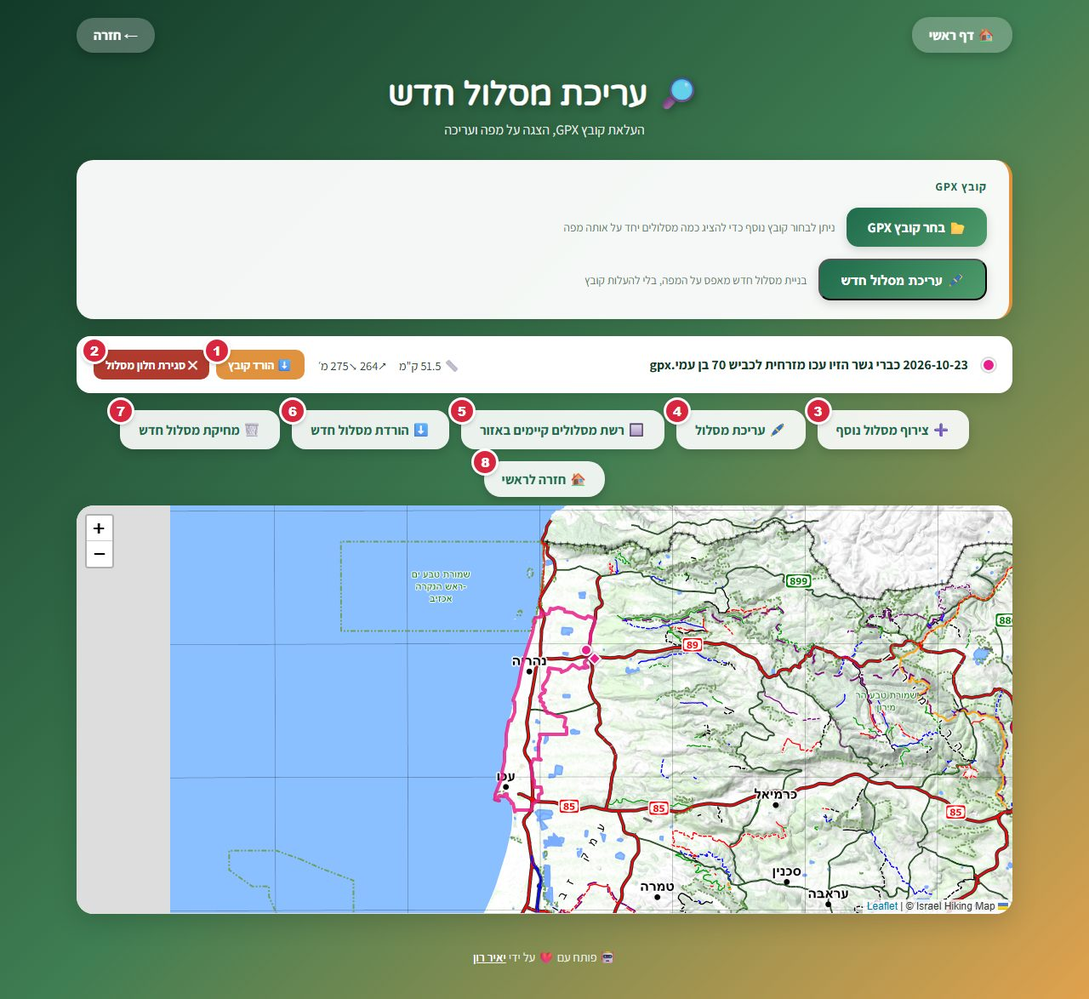
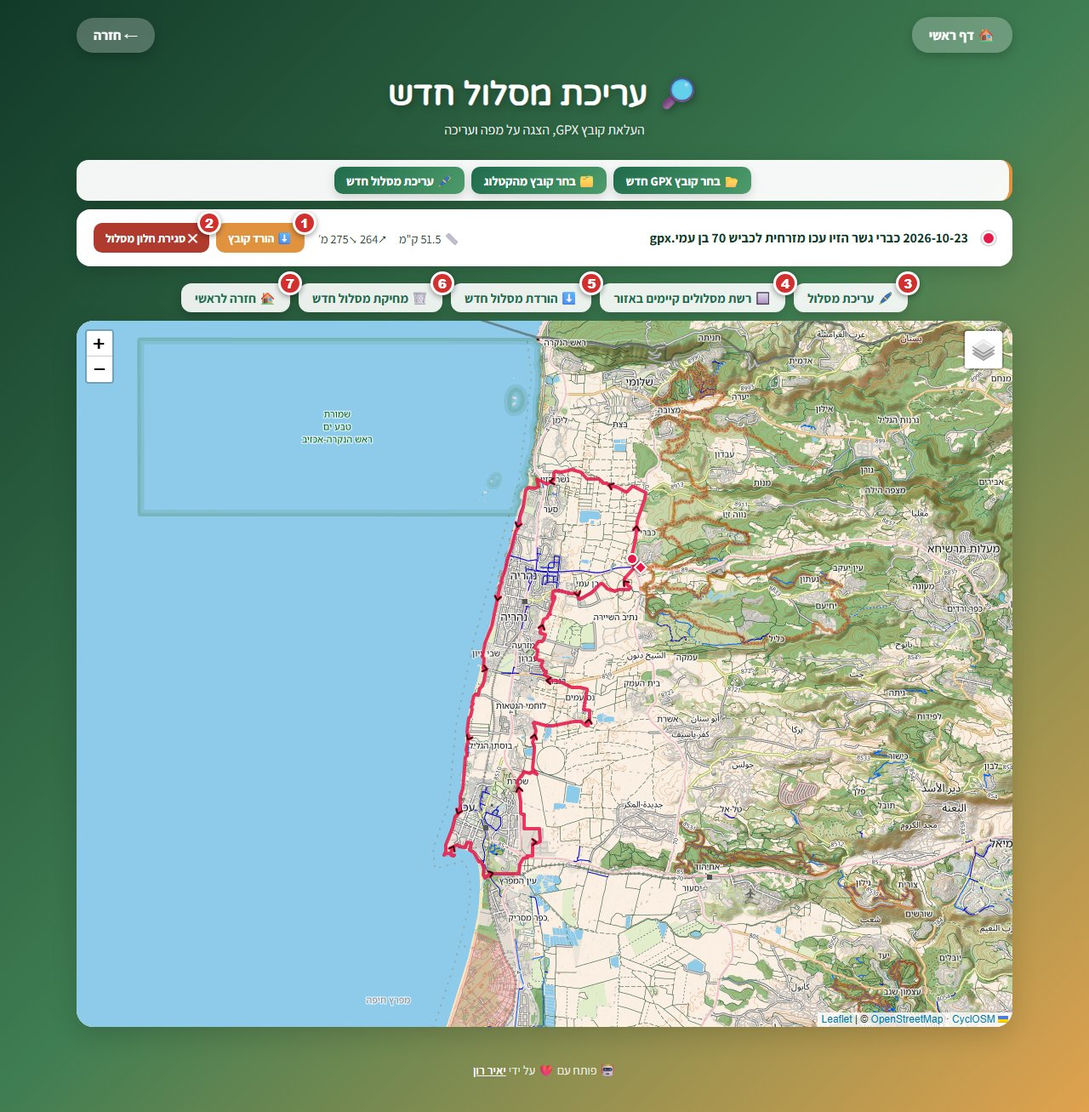
Bike: merge into edited route, "תכנון מסלול חדש" button, guide TOC and screenshots
- gps_upload: "מזג את כל המסלולים" now includes the drawn route, chains pieces by
  nearest ends, and turns the result into the edited route (delete/download/
  continue editing); all edit options stay available after merge, cut turns
  the merged route into a source file
- catalog: button renamed "🔎 תכנון מסלול חדש"
- user guide: TOC grouped by page, upload chapter rebuilt with new screenshots
  and a catalog-picker section

diff --git a/YR1/bike/user_guide/user_guide.html b/YR1/bike/user_guide/user_guide.html
@@ -26,7 +26,10 @@ li{margin:4px 0}
 a{color:var(--primary);font-weight:600}
 code,.mono{font-family:Consolas,monospace;background:var(--light);border-radius:6px;padding:1px 6px;font-size:.92rem;direction:ltr;unicode-bidi:embed;white-space:nowrap}
 .toc{columns:2;column-gap:30px}
-.toc ol{margin-top:0}
+.toc ol{margin:4px 22px 0 0}
+.toc-group{break-inside:avoid;margin-bottom:14px}
+.toc .toc-page{display:block;font-family:'Varela Round',sans-serif;font-size:1.12rem;color:var(--dark);border-bottom:1px solid #DCE8E0;padding-bottom:3px}
+.toc-file{font-family:Consolas,monospace;font-size:.78rem;color:#5C7A6B;font-weight:400;direction:ltr;unicode-bidi:embed}
 .toc a{text-decoration:none}
 .toc a:hover{text-decoration:underline}
 .tools{display:grid;grid-template-columns:repeat(auto-fit,minmax(240px,1fr));gap:14px;margin-top:12px}
@@ -77,22 +80,53 @@ footer{text-align:center;color:#5C7A6B;font-size:.9rem;padding:10px 16px 30px}
 <section id="toc">
   <h2>תוכן העניינים</h2>
   <div class="toc">
-    <ol>
-      <li><a href="#intro">מה יש כאן</a></li>
-      <li><a href="#catalog">קטלוג מסלולים</a></li>
-      <li><a href="#catalog-search">חיפוש, סינון ומיון</a></li>
-      <li><a href="#catalog-card">כרטיס מסלול</a></li>
-      <li><a href="#catalog-select">בחירת מסלולים והורדה</a></li>
-      <li><a href="#catalog-map">תצוגת מסלולים על המפה</a></li>
-      <li><a href="#catalog-edit">עריכת מסלול מתוך המפה</a></li>
-      <li><a href="#catalog-network">רשת מסלולים: אילו מסלולים עוברים בנקודה</a></li>
-      <li><a href="#upload">עריכת מסלול חדש (קובץ מהמחשב)</a></li>
-      <li><a href="#upload-edit">עריכה בדף "עריכת מסלול חדש"</a></li>
-      <li><a href="#upload-area">רשת מסלולים קיימים באזור</a></li>
-      <li><a href="#cleaner">ניקוי קובץ GPX</a></li>
-      <li><a href="#add-route">הוספת מסלול לקטלוג</a></li>
-      <li><a href="#faq">טיפים ושאלות נפוצות</a></li>
-    </ol>
+    <div class="toc-group">
+      <a class="toc-page" href="#intro">📖 כללי</a>
+      <ol>
+        <li><a href="#intro">מה יש כאן</a></li>
+      </ol>
+    </div>
+    <div class="toc-group">
+      <a class="toc-page" href="#catalog">🗺 קטלוג מסלולים <span class="toc-file">catalog.html</span></a>
+      <ol>
+        <li><a href="#catalog">מסך הקטלוג</a></li>
+        <li><a href="#catalog-search">חיפוש, סינון ומיון</a></li>
+        <li><a href="#catalog-card">כרטיס מסלול</a></li>
+        <li><a href="#catalog-select">בחירת מסלולים והורדה</a></li>
+        <li><a href="#catalog-map">תצוגת מסלולים על המפה</a></li>
+        <li><a href="#catalog-edit">עריכת מסלול מתוך המפה</a></li>
+        <li><a href="#catalog-network">רשת מסלולים: אילו מסלולים עוברים בנקודה</a></li>
+      </ol>
+    </div>
+    <div class="toc-group">
+      <a class="toc-page" href="#upload">🔎 תכנון מסלול חדש <span class="toc-file">gps_upload.html</span></a>
+      <ol>
+        <li><a href="#upload">מסך הפתיחה וטעינת קבצים</a></li>
+        <li><a href="#upload-picker">בחירת מסלולים מהקטלוג</a></li>
+        <li><a href="#upload-edit">עריכה בדף "עריכת מסלול חדש"</a></li>
+        <li><a href="#upload-area">רשת מסלולים קיימים באזור</a></li>
+      </ol>
+    </div>
+    <div class="toc-group">
+      <a class="toc-page" href="#cleaner">🧹 ניקוי קובץ GPX <span class="toc-file">gpx_cleaner.html</span></a>
+      <ol>
+        <li><a href="#cleaner-file">בחירת קובץ</a></li>
+        <li><a href="#cleaner-settings">הגדרות</a></li>
+        <li><a href="#cleaner-manual">בדיקה ידנית</a></li>
+        <li><a href="#cleaner-next">מה הלאה?</a></li>
+        <li><a href="#cleaner-results">תוצאות</a></li>
+        <li><a href="#cleaner-map">מפה והורדה</a></li>
+      </ol>
+    </div>
+    <div class="toc-group">
+      <a class="toc-page" href="#add-route">➕ הוספת מסלול לקטלוג <span class="toc-file">add_route.html</span></a>
+      <ol>
+        <li><a href="#add-route">שליחת מסלול לקטלוג</a></li>
+      </ol>
+    </div>
+    <div class="toc-group">
+      <a class="toc-page" href="#faq">💬 טיפים ושאלות נפוצות</a>
+    </div>
   </div>
 </section>
 
@@ -119,7 +153,7 @@ footer{text-align:center;color:#5C7A6B;font-size:.9rem;padding:10px 16px 30px}
     <tr><td><span class="n">1</span></td><td>🧹 ניקוי GPX</td><td>מעבר לדף <a href="#cleaner">ניקוי קובץ GPX</a>.</td></tr>
     <tr><td><span class="n">2</span></td><td>📖 מדריך למשתמש</td><td>פותח את המדריך הזה.</td></tr>
     <tr><td><span class="n">3</span></td><td>➕ הוספת מסלול לקטלוג</td><td>פותח את <a href="#add-route">טופס הוספת מסלול</a>, לשליחת מסלול שלכם לקטלוג.</td></tr>
-    <tr><td><span class="n">4</span></td><td>🔎 בדיקת קובץ חדש</td><td>מעבר לדף <a href="#upload">עריכת מסלול חדש</a>, לפתיחת קובץ GPX מהמחשב.</td></tr>
+    <tr><td><span class="n">4</span></td><td>🔎 תכנון מסלול חדש</td><td>מעבר לדף <a href="#upload">עריכת מסלול חדש</a>, לפתיחת קובץ GPX מהמחשב.</td></tr>
     <tr><td><span class="n">5</span></td><td>תיבת החיפוש</td><td>חיפוש לפי שם מסלול, ישוב, מקום עניין, מספר מסלול או קורדינטות. התוצאות מתעדכנות תוך כדי הקלדה. ראו <a href="#catalog-search">חיפוש, סינון ומיון</a>.</td></tr>
     <tr><td><span class="n">6</span></td><td>רדיוס חיפוש</td><td>פעיל רק בחיפוש לפי קורדינטות: מציג מסלולים שעוברים במרחק הזה מהנקודה. בין 50 ל-9999 מטר, ברירת המחדל 500.</td></tr>
     <tr><td><span class="n">7</span></td><td>סוג פעילות</td><td>הכול / 🚶 הליכה רגלית / 🚵 רכיבת אופניים.</td></tr>
@@ -282,20 +316,30 @@ footer{text-align:center;color:#5C7A6B;font-size:.9rem;padding:10px 16px 30px}
 
 <!-- ============ עריכת מסלול חדש ============ -->
 <section id="upload">
-  <h2>🔎 עריכת מסלול חדש (קובץ מהמחשב)</h2>
-  <p>בדף הזה עובדים עם קובצי GPX שלכם, כאלה שלא נמצאים בקטלוג: מהשעון, מאפליקציה או מחבר. נכנסים אליו מכפתור <b>🔎 בדיקת קובץ חדש</b> בקטלוג.</p>
-  <div class="tip">🔒 הקובץ שאתם בוחרים נקרא בתוך הדפדפן שלכם בלבד. הוא לא נשלח לאתר ולא נשמר בו.</div>
+  <h2>🔎 עריכת מסלול חדש</h2>
+  <p>בדף הזה פותחים קובצי GPX ומציגים אותם על מפה: קבצים שלכם מהשעון, מאפליקציה או מחבר, או מסלולים מהקטלוג. אפשר גם לבנות בו מסלול חדש מאפס. נכנסים אליו מכפתור <b>🔎 תכנון מסלול חדש</b> בקטלוג.</p>
+  <div class="tip">🔒 קובץ שאתם בוחרים מהמחשב נקרא בתוך הדפדפן שלכם בלבד. הוא לא נשלח לאתר ולא נשמר בו.</div>
   <figure><img src="img/upload-start.jpg" alt="דף עריכת מסלול חדש" loading="lazy"><figcaption>הדף לפני שנבחר קובץ</figcaption></figure>
   <table>
     <tr><th>#</th><th>כפתור</th><th>מה הוא עושה</th></tr>
     <tr><td><span class="n">1</span></td><td>🏠 דף ראשי</td><td>חזרה לקטלוג המסלולים.</td></tr>
     <tr><td><span class="n">2</span></td><td>← חזרה</td><td>חזרה לדף הקודם בדפדפן.</td></tr>
-    <tr><td><span class="n">3</span></td><td>📂 בחר קובץ GPX חדש<br>🗂 בחר קובץ מהקטלוג</td><td>הראשון פותח קובץ GPX מהמחשב או מהטלפון. השני פותח חלון עם כל מסלולי הקטלוג: מחפשים לפי שם, יישוב או מספר מסלול, מסמנים מסלול אחד או יותר ולוחצים <b>הצגה על המפה</b>. אפשר לחזור על כל אחד מהם, וכל המסלולים יוצגו יחד.</td></tr>
-    <tr><td><span class="n">4</span></td><td>🖊 עריכת מסלול חדש</td><td>מתחיל מסלול חדש מאפס, בלי קובץ. המפה נפתחת במיקום שלכם (אם תאשרו לדפדפן לגשת למיקום), ותפריט העריכה נפתח מיד.</td></tr>
+    <tr><td><span class="n">3</span></td><td>📂 בחר קובץ GPX חדש</td><td>פותח קובץ GPX מהמחשב או מהטלפון. אפשר לחזור על זה כמה פעמים, וכל הקבצים יוצגו יחד על המפה.</td></tr>
+    <tr><td><span class="n">4</span></td><td>🗂 בחר קובץ מהקטלוג</td><td>פותח חלון עם כל מסלולי הקטלוג (ראו למטה).</td></tr>
+    <tr><td><span class="n">5</span></td><td>🖊 עריכת מסלול חדש</td><td>מתחיל מסלול חדש מאפס, בלי קובץ. המפה נפתחת במיקום שלכם (אם תאשרו לדפדפן לגשת למיקום), ותפריט העריכה נפתח מיד.</td></tr>
   </table>
 
+  <h3 id="upload-picker">בחירת מסלולים מהקטלוג</h3>
+  <figure><img src="img/upload-catalog-picker.jpg" alt="חלון בחירת מסלולים מהקטלוג" loading="lazy"><figcaption>החלון שנפתח בלחיצה על 🗂 בחר קובץ מהקטלוג</figcaption></figure>
+  <ul>
+    <li>מקלידים בשורת החיפוש שם, יישוב או מספר מסלול. הרשימה מסתננת תוך כדי הקלדה, ולכל מסלול מוצגים המספר והאורך שלו.</li>
+    <li>מסמנים מסלול אחד או יותר. בתחתית החלון מופיע כמה מסלולים נבחרו.</li>
+    <li>לוחצים <b>הצגה על המפה</b>. המסלולים נפתחים כמו קבצים שבחרתם מהמחשב, כל אחד בצבע משלו, ואפשר להוסיף אליהם עוד קבצים.</li>
+    <li>✕ או לחיצה מחוץ לחלון סוגרים אותו בלי לפתוח מסלולים.</li>
+  </ul>
+
   <h3>אחרי שנבחר קובץ</h3>
-  <p>לכל קובץ מופיע כרטיס עם השם, הצבע שלו על המפה, המרחק והטיפוס והירידה. מתחת לכרטיסים יש שורת כפתורים, ומתחתיה המפה.</p>
+  <p>הכפתורים בראש הדף נשארים, כדי שאפשר יהיה להוסיף עוד קבצים. לכל קובץ מופיע כרטיס עם השם, הצבע שלו על המפה, המרחק והטיפוס והירידה. מתחת לכרטיסים יש שורת כפתורים, ומתחתיה המפה, שתופסת את רוב גובה המסך.</p>
   <figure><img src="img/upload-loaded.jpg" alt="קובץ שנטען" loading="lazy"><figcaption>קובץ אחד טעון, עם שורת הכפתורים</figcaption></figure>
   <table>
     <tr><th>#</th><th>כפתור</th><th>מה הוא עושה</th></tr>
@@ -321,7 +365,7 @@ footer{text-align:center;color:#5C7A6B;font-size:.9rem;padding:10px 16px 30px}
   <figure><img src="img/upload-edit-menu.jpg" alt="תפריט העריכה" loading="lazy"><figcaption>תפריט "עריכת מסלול" בדף עריכת מסלול חדש</figcaption></figure>
   <table>
     <tr><th></th><th>אפשרות</th><th>מה היא עושה</th></tr>
-    <tr><td>🔗</td><td>מזג את כל המסלולים</td><td>מוריד מיד קובץ אחד, <code>מיזוג_מסלולים.gpx</code>, עם כל הקבצים שפתחתם. מופיע רק כשיש לפחות קובץ אחד פתוח.</td></tr>
+    <tr><td>🔗</td><td>מזג את כל המסלולים</td><td>מחבר את כל הקבצים שפתחתם, וגם את המסלול שבניתם בעריכה, למסלול אחד, והוא הופך למסלול החדש שבעריכה: הוא מוצג בצבע העריכה, והקבצים שמוזגו יורדים מהרשימה ומהמפה (הקבצים במחשב לא משתנים). מכאן אפשר להמשיך להוסיף לו נקודות, להוריד אותו ב-<b>⬇ הורדת מסלול חדש</b>, או למחוק את כולו ב-<b>🗑 מחיקת מסלול חדש</b>. החלקים מתחברים לפי הקצוות הקרובים: קטע שציירתם עד תחילת הקובץ נכנס לפניו, וקטע שמתחיל בסוף הקובץ נכנס אחריו, גם אם ציירתם אותו בכיוון ההפוך. חלקים רחוקים זה מזה מתחברים בקו ישר. UNDO לא מבטל את המיזוג עצמו, רק נקודות שהוספתם אחריו. כל אפשרויות התפריט נשארות זמינות גם אחרי המיזוג. בחירה ב-<b>✂ חיתוך</b> הופכת את המסלול הממוזג לקובץ ברשימה (<code>מסלול_ממוזג.gpx</code>), ואז לוחצים עליו על נקודת ההתחלה והסיום הרצויות, כמו בכל קובץ. מופיע רק כשיש לפחות קובץ אחד פתוח.</td></tr>
     <tr><td>✂</td><td>חיתוך מסלול לפי מסלולים קיימים</td><td>לוחצים על נקודות לאורך הקווים שעל המפה: הקבצים שפתחתם, רשת המסלולים באזור והמסלולים שבחרתם מרשימת האזור. כשלוחצים שוב על אותו מסלול, המסלול החדש נשאר עליו ועוקב אחריו. כשלוחצים על מסלול אחר, המסלול החדש עובר אליו בדרך הקצרה ביותר לאורך הקווים שעל המפה, גם דרך מסלולים נוספים. אם אין שום חיבור בין שני המסלולים, הנקודות מחוברות בקו ישר ומופיעה אזהרה. מופיע כשיש קובץ פתוח או רשת מסלולים.</td></tr>
     <tr><td>📍</td><td>הוספת נקודות עם הצמדה לנתיב מפה</td><td>הנקודות נצמדות לשבילים ולדרכים של המפה (OpenStreetMap), והמסלול עוקב אחריהם. צריך להתקרב לאזור לפני הבחירה.</td></tr>
     <tr><td>✏</td><td>הוספת נקודות חופשי (בלי הצמדה)</td><td>כל לחיצה מוסיפה נקודה במקום שלחצתם, עם קו ישר מהנקודה הקודמת.</td></tr>
@@ -380,7 +424,7 @@ footer{text-align:center;color:#5C7A6B;font-size:.9rem;padding:10px 16px 30px}
 <section id="cleaner">
   <h2>🧹 ניקוי קובץ GPX</h2>
   <p>לפעמים ה-GPS "קופץ": נקודה בודדת רחוקה מהמסלול, קטע שנרשם כשהמכשיר נשאר דלוק ברכב, או גובה שגוי. הכלי הזה מתקן את הגובה, מסיר קפיצות, נותן לכם לסמן קטעים למחיקה, ומוריד קובץ נקי.</p>
-  <h3>1. בחירת קובץ</h3>
+  <h3 id="cleaner-file">1. בחירת קובץ</h3>
   <p>יש שתי דרכים: מהקטלוג (בוחרים מסלול ולוחצים <b>🧹 ניקוי קובץ</b> בפס הפעולות), או ישירות מהדף.</p>
   <figure><img src="img/cleaner-empty.jpg" alt="ניקוי GPX לפני בחירת קובץ" loading="lazy"><figcaption>הדף כשנכנסים אליו ישירות</figcaption></figure>
   <ul>
@@ -389,7 +433,7 @@ footer{text-align:center;color:#5C7A6B;font-size:.9rem;padding:10px 16px 30px}
   </ul>
   <div class="warn">⚠ הכלי מיועד ל<b>הקלטות</b>, כלומר קבצים עם שעה לכל נקודה. במסלול מתוכנן אין שעות, ולכן אי אפשר לבדוק בו מהירות.</div>
 
-  <h3>2. הגדרות</h3>
+  <h3 id="cleaner-settings">2. הגדרות</h3>
   <figure><img src="img/cleaner-main.jpg" alt="הגדרות הניקוי" loading="lazy"><figcaption>קובץ נבחר, וההגדרות לפני הניקוי</figcaption></figure>
   <table>
     <tr><th>#</th><th>כפתור / שדה</th><th>מה הוא עושה</th></tr>
@@ -418,14 +462,14 @@ footer{text-align:center;color:#5C7A6B;font-size:.9rem;padding:10px 16px 30px}
   </table>
   <p>לחיצה על שורה ברשימה מקרבת את המפה לנקודת הציון הזו.</p>
 
-  <h3>4. מה הלאה?</h3>
+  <h3 id="cleaner-next">4. מה הלאה?</h3>
   <figure><img src="img/cleaner-decision.jpg" alt="חלון מה הלאה" loading="lazy"></figure>
   <ul>
     <li><b>🔄 סבוב נוסף</b>: מוחק את הקטעים שסימנתם ב-✗ ומחלק את מה שנשאר לנקודות ציון חדשות, לבדיקה מדויקת יותר. מספר הסבב בראש המסך עולה.</li>
     <li><b>⚡ הפעל פילטר אוטומטי</b>: מוחק את הקטעים שסימנתם, מפעיל את הסינון לפי ההגדרות (גובה, מהירות, מרחק) ומציג תוצאות.</li>
   </ul>
 
-  <h3>5. תוצאות</h3>
+  <h3 id="cleaner-results">5. תוצאות</h3>
   <figure><img src="img/cleaner-results.jpg" alt="תוצאות הניקוי" loading="lazy"><figcaption>תוצאות: נקודות מקוריות, שנשמרו ושנמחקו</figcaption></figure>
   <table>
     <tr><th>#</th><th>כפתור / אזור</th><th>מה הוא עושה</th></tr>
@@ -434,7 +478,7 @@ footer{text-align:center;color:#5C7A6B;font-size:.9rem;padding:10px 16px 30px}
   </table>
   <div class="tip">💡 נמחקו יותר נקודות ממה שציפיתם? שנו את ההגדרות במסך הזה: הגדילו את הפרש הגובה או את המהירות. התוצאות מחושבות מחדש מיד, בלי להתחיל מההתחלה.</div>
 
-  <h3>6. מפה והורדה</h3>
+  <h3 id="cleaner-map">6. מפה והורדה</h3>
   <figure><img src="img/cleaner-map.jpg" alt="המסלול הנקי על המפה" loading="lazy"><figcaption>המסלול הנקי, עם זמן, מרחק וטיפוס</figcaption></figure>
   <table>
     <tr><th>#</th><th>כפתור / שדה</th><th>מה הוא עושה</th></tr>

diff --git a/YR1/bike/gps_upload/gps_upload.html b/YR1/bike/gps_upload/gps_upload.html
@@ -244,6 +244,7 @@ var mapInstance = null;
 // --- מיזוג/עריכת מסלול (route_editor.js), נוסף 22.08.2026, עודכן 23.08.2026
 // למצבי-עריכה מתחלפים (חיתוך/הצמדה-לנתיב-מפה/חופשי) ---
 var editMode = null; // null | 'cut' | 'osm' | 'freehand' - מצב העריכה הפעיל כרגע
+var mergedRouteActive = false; // המסלול שבעריכה נוצר במיזוג (mergeAllRoutesDownload) - ראו selectEditMode('cut')
 var routeBuilder = null; // RouteEditor.createRouteBuilder() - נוצר עם בחירת מצב ראשון, נשמר לאורך כל ההחלפות
 var cutPool = null; // בריכת GPX (RouteEditor.buildPool) למצב 'cut' - נבנית מחדש בכל בחירה במצב הזה
 // גרף ניתוב על cutPool (RouteEditor.buildPoolGraph, נוסף 18.11.2026) - לחיצה על מסלול אחר מהקודמת
@@ -551,11 +552,89 @@ function doCloseRoute(id) {
 // למצבי-עריכה מתחלפים (חיתוך מקטע / הצמדה לנתיב מפה (OSM) / חופשי) שאפשר
 // להחליף ביניהם תוך כדי בניית אותו מסלול - ראו RouteEditor.createRouteBuilder. ---
 
+// מיזוג (עודכן 22.11.2026): כולל גם את המסלול שנבנה בעריכה (routeBuilder), ומחבר
+// את החלקים לפי הקצוות הקרובים ולא לפי סדר הרשימה - למשל קטע שהמשתמש צייר לפני
+// תחילת הקובץ נכנס לפניו, וקטע שמסתיים בסוף הקובץ נכנס הפוך אם צריך.
+// התוצאה **הופכת למסלול שבעריכה** (בצבע העריכה) במקום הורדה מיידית: הקבצים
+// שמוזגו יורדים מהרשימה ומהמפה, "🗑 מחיקת מסלול חדש" מוחקת את כל המסלול הממוזג,
+// ו"⬇ הורדת מסלול חדש" מורידה אותו. אפשר להמשיך להוסיף לו נקודות.
+// קודם: שירשר רק את הקבצים הטעונים, בסדר הטעינה, והוריד מיד קובץ מיזוג_מסלולים.gpx.
 function mergeAllRoutesDownload() {
   closeEditCurtain();
-  if (!routes.length) { alert('אין מסלולים טעונים למיזוג'); return; }
-  var pool = RouteEditor.buildPool(allRouteSegments());
-  RouteEditor.downloadGpx(pool, 'מיזוג_מסלולים.gpx', 'מיזוג מסלולים');
+  var pieces = allRouteSegments().filter(function (s) { return s && s.length; });
+  if (routeBuilder && routeBuilder.getPoints().length >= 2) pieces.push(routeBuilder.getPoints());
+  if (pieces.length < 1 || (pieces.length === 1 && pieces[0].length < 2)) { alert('אין מסלולים למיזוג'); return; }
+  var merged = chainPieces(pieces);
+
+  // הקבצים שמוזגו יורדים מהמפה ומהרשימה - בלי resetCutterUI (doCloseRoute),
+  // שהיה מוחק גם את המסלול שבעריכה
+  routes.forEach(function (r) {
+    if (r.polyline) mapInstance.removeLayer(r.polyline);
+    if (r.startMarker) mapInstance.removeLayer(r.startMarker);
+    if (r.endMarker) mapInstance.removeLayer(r.endMarker);
+  });
+  routes = [];
+
+  if (!routeBuilder) routeBuilder = RouteEditor.createRouteBuilder();
+  routeBuilder.loadPoints(merged);
+  mergedRouteActive = true;
+  // בריכת החיתוך נבנתה גם מהקבצים שירדו - נבנית מחדש בבחירת מצב הבא
+  editMode = null;
+  cutPool = null;
+  cutGraph = null;
+  updateCurtainChecks();
+  if (mapInstance) mapInstance.getContainer().style.cursor = '';
+
+  clearCutterVisuals();
+  [merged[0], merged[merged.length - 1]].forEach(function (p) {
+    cutterMarkers.push(L.circleMarker([p.lat, p.lon], {
+      radius: 6, color: '#fff', weight: 2, fillColor: '#E0923F', fillOpacity: 1
+    }).addTo(mapInstance));
+  });
+  redrawCutterPreview();
+  renderRoutesList();
+  document.getElementById('cutterToolbar').style.display = 'flex';
+  setCutterStatus('🔗 המסלולים מוזגו למסלול החדש (' + merged.length + ' נקודות)');
+  updateCutterStats();
+  mapInstance.fitBounds(L.latLngBounds(merged.map(function (p) { return [p.lat, p.lon]; })), { padding: [30, 30] });
+}
+
+function distM(a, b) {
+  var R = 6371000, toRad = Math.PI / 180;
+  var dLat = (b.lat - a.lat) * toRad, dLon = (b.lon - a.lon) * toRad;
+  var h = Math.sin(dLat / 2) * Math.sin(dLat / 2) +
+          Math.cos(a.lat * toRad) * Math.cos(b.lat * toRad) * Math.sin(dLon / 2) * Math.sin(dLon / 2);
+  return 2 * R * Math.asin(Math.sqrt(h));
+}
+
+// משרשר חלקי מסלול לקו אחד: מתחיל מהחלק הארוך ביותר (בדרך כלל הקובץ), ובכל צעד
+// מצרף את החלק שאחד מקצותיו הכי קרוב לתחילת או לסוף השרשרת - בכיוון הנכון
+// (הפוך אם צריך). נקודת חיבור כפולה (פחות מ-5 מ') מושמטת. חלקים רחוקים זה מזה
+// מתחברים בקו ישר, כמו קודם.
+function chainPieces(pieces) {
+  var rest = pieces.map(function (p) { return p.slice(); });
+  var startIdx = 0;
+  rest.forEach(function (p, i) { if (p.length > rest[startIdx].length) startIdx = i; });
+  var chain = rest.splice(startIdx, 1)[0];
+  while (rest.length) {
+    var best = null;
+    rest.forEach(function (p, i) {
+      var head = chain[0], tail = chain[chain.length - 1], ps = p[0], pe = p[p.length - 1];
+      [[distM(tail, ps), i, 'append', false], [distM(tail, pe), i, 'append', true],
+       [distM(head, pe), i, 'prepend', false], [distM(head, ps), i, 'prepend', true]]
+        .forEach(function (c) { if (!best || c[0] < best[0]) best = c; });
+    });
+    var piece = rest.splice(best[1], 1)[0];
+    if (best[3]) piece.reverse();
+    if (best[2] === 'append') {
+      if (distM(chain[chain.length - 1], piece[0]) < 5) piece = piece.slice(1);
+      chain = chain.concat(piece);
+    } else {
+      if (distM(piece[piece.length - 1], chain[0]) < 5) piece = piece.slice(0, -1);
+      chain = piece.concat(chain);
+    }
+  }
+  return chain;
 }
 
 function toggleEditCurtain() {
@@ -584,8 +663,11 @@ function updateCurtainChecks() {
 // אין שום מסלול טעון מלכתחילה.
 function updateCurtainAvailability() {
   var hasRoutes = routes.length > 0;
-  document.getElementById('mergeOption').style.display = hasRoutes ? 'flex' : 'none';
-  document.getElementById('cutOption').style.display = (hasRoutes || (areaSegments && areaSegments.length)) ? 'flex' : 'none';
+  // אחרי מיזוג (22.11.2026) אין קבצים ברשימה, אבל המסלול הממוזג הוא המסלול
+  // שעורכים - כל האפשרויות נשארות זמינות
+  var hasEdited = !!(routeBuilder && routeBuilder.getPoints().length >= 2);
+  document.getElementById('mergeOption').style.display = (hasRoutes || hasEdited) ? 'flex' : 'none';
+  document.getElementById('cutOption').style.display = (hasRoutes || mergedRouteActive || (areaSegments && areaSegments.length)) ? 'flex' : 'none';
 }
 
 // שורת הכפתורים גלויה אם יש מסלולים טעונים, או שכבר יש מסלול-בבנייה
@@ -632,6 +714,13 @@ function selectEditMode(mode) {
   closeEditCurtain();
 
   if (mode === 'cut') {
+    // חיתוך אחרי מיזוג: המסלול הממוזג הופך למסלול-מקור טעון ברשימה (כמו קובץ
+    // שנפתח), והחיתוך בונה ממנו מסלול חדש - לוחצים על נקודת ההתחלה והסיום הרצויות
+    if (mergedRouteActive && routeBuilder && routeBuilder.getPoints().length >= 2) {
+      var mergedPts = routeBuilder.getPoints();
+      mergedRouteActive = false;
+      addRouteFromText(RouteEditor.buildGpxText(mergedPts, 'מסלול ממוזג'), 'מסלול_ממוזג.gpx'); // מאפס גם את העריכה
+    }
     var lines = cutSourceLines();
     if (!lines.length) { alert('אין מסלולים או רשת מסלולים על המפה'); return; }
     cutPool = RouteEditor.buildPool(lines);
@@ -742,6 +831,7 @@ window.addEventListener('beforeunload', function (e) {
 function deactivateEditMode() {
   editMode = null;
   routeBuilder = null;
+  mergedRouteActive = false;
   cutPool = null;
   cutGraph = null;
   osmPool = null;
@@ -769,6 +859,7 @@ function deleteNewSegmentAsk() {
 }
 
 function deleteNewSegment() {
+  mergedRouteActive = false;
   clearCutterVisuals();
   if (routeBuilder) {
     routeBuilder.reset();
@@ -848,7 +939,8 @@ function redrawCutterPreview() {
 
 function cutterUndo() {
   if (!routeBuilder) return;
-  routeBuilder.undo();
+  // אחרי מיזוג אין היסטוריה - לא להסיר את סמני ההתחלה/סוף של המסלול הממוזג
+  if (!routeBuilder.undo()) return;
   var m = cutterMarkers.pop();
   if (m) mapInstance.removeLayer(m);
   redrawCutterPreview();

diff --git a/YR1/bike/route_catalog/data/route_editor.js b/YR1/bike/route_catalog/data/route_editor.js
@@ -613,10 +613,19 @@ var RouteEditor = (function () {
       history = [];
     }
 
+    // מחליף את כל המסלול בנקודות נתונות (מיזוג מסלולים ב-gps_upload, 22.11.2026).
+    // ההיסטוריה מתאפסת - UNDO לא חוזר אל לפני המיזוג, רק מבטל נקודות שנוספו אחריו.
+    function loadPoints(points) {
+      newPoints = points.slice();
+      lastAnchor = null;
+      lastPool = null;
+      history = [];
+    }
+
     function getPoints() { return newPoints.slice(); }
     function hasStarted() { return newPoints.length > 0; }
 
-    return { addFromPool: addFromPool, addFreehand: addFreehand, undo: undo, reset: reset, getPoints: getPoints, hasStarted: hasStarted };
+    return { addFromPool: addFromPool, addFreehand: addFreehand, undo: undo, reset: reset, loadPoints: loadPoints, getPoints: getPoints, hasStarted: hasStarted };
   }
 
   // GPX תקני מרשימת נקודות - **בלי** תגי <time> בכלל (פעולת תכנון, לא

diff --git a/YR1/bike/route_catalog/catalog.html b/YR1/bike/route_catalog/catalog.html
@@ -185,7 +185,7 @@ footer a{color:white;text-decoration:underline;font-weight:600}
     <a href="../gpx_cleaner/gpx_cleaner.html" class="btn-nav">🧹 ניקוי GPX</a>
     <a href="../user_guide/user_guide.html" class="btn-nav">📖 מדריך למשתמש</a>
     <a href="../add_route/add_route.html" class="btn-nav">➕ הוספת מסלול לקטלוג</a>
-    <a href="../gps_upload/gps_upload.html" class="btn-nav">🔎 בדיקת קובץ חדש</a>
+    <a href="../gps_upload/gps_upload.html" class="btn-nav">🔎 תכנון מסלול חדש</a>
   </div>
   <header>
     <h1>🗺 קטלוג מסלולים</h1>
